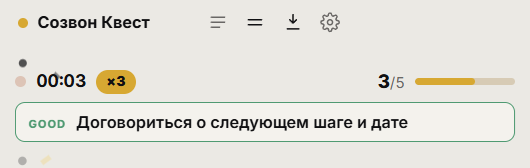
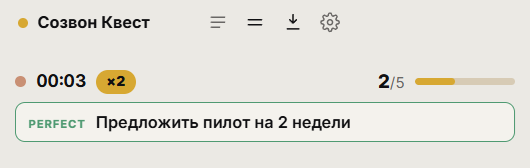
README под версию 0.2: новые скриншоты, режимы с ключом и без, короче и без устаревшего; демо не пишет в историю; плашка рекорда не перекрывает ранг

diff --git a/src/renderer/app.js b/src/renderer/app.js
@@ -64,7 +64,7 @@
   function enterLive(snap, replay) {
     S.session = snap; S.theses = snap.theses; S.transcriptLines = []; S.partials = { me: '', them: '' }; S.praise = 0;
     renderTheses(); renderTranscript(); updateProgress(false);
-    $('mock-bar').hidden = !!replay || S.cfg.STT_PROVIDER !== 'mock';
+    $('mock-bar').hidden = !!replay || !!S.args.demo || S.cfg.STT_PROVIDER !== 'mock';
     $('live-err').hidden = true; $('err-report').hidden = true;
     $('streak-stamp').hidden = true;
     show('live');
@@ -815,6 +815,7 @@
       setTimeout(() => window.api.mockSay('me', 'Пилот на две недели стоит сто двадцать тысяч рублей, начать можем со следующего понедельника'), 900);
       setTimeout(() => window.api.mockSay('them', 'Понял. А есть примеры, где это уже сработало?'), 6000);
       setTimeout(() => window.api.mockSay('me', 'У одного клиента наш агент вернул один и девять миллиона рублей за два месяца. Кстати, а кто у вас принимает решение по таким проектам?'), 6500);
+      setTimeout(() => window.api.mockSay('them', 'Решение за мной и финдиректором, бюджет на квартал заложен. Хотим стартовать до конца месяца.'), 8500);
     }
   }
 

diff --git a/src/renderer/styles.css b/src/renderer/styles.css
@@ -271,7 +271,7 @@ h3 { font-size: 12px; font-weight: 600; color: var(--text-dim); text-transform: 
 .result-title.rise, .dog-say.rise { animation: rise 380ms var(--ease); }
 @keyframes rise { from { opacity: 0; transform: translateY(10px); } to { opacity: 1; transform: none; } }
 .result-sub { font-size: 12px; color: var(--text-faint); margin-top: 2px; white-space: nowrap; overflow: hidden; text-overflow: ellipsis; }
-.record-pill { position: absolute; top: 12px; right: 12px; background: var(--gold); color: var(--ink); font-size: 11px; font-weight: 800; border-radius: 999px; padding: 4px 10px; letter-spacing: .04em; }
+.record-pill { position: absolute; bottom: 14px; right: 16px; background: var(--gold); color: var(--ink); font-size: 11px; font-weight: 800; border-radius: 999px; padding: 4px 10px; letter-spacing: .04em; }
 .record-pill.pop { animation: stamp 420ms var(--ease), glow 700ms ease-in-out 2; }
 @keyframes glow { 50% { box-shadow: 0 0 0 6px rgba(215,168,50,.35); } }
 

diff --git a/src/main/main.js b/src/main/main.js
@@ -102,6 +102,8 @@ app.whenReady().then(() => {
   if (!cfg.MODELS_DIR) cfg.MODELS_DIR = path.join(app.getPath('userData'), 'models');
   if (ARGS.stt) cfg.STT_PROVIDER = ARGS.stt;
   else if (ARGS.demo) cfg.STT_PROVIDER = 'mock';
+  // демо не пишет в настоящую историю, иначе в «Рекорд» попадает тестовый созвон
+  if (ARGS.demo) cfg.SESSIONS_DIR = path.join(app.getPath('temp'), 'sozvon-quest-demo');
   log('start', `v${app.getVersion()}`, `stt=${cfg.STT_PROVIDER}`, `llm=${cfg.LLM_PROVIDER}`, `key=${cfg.AITUNNEL_API_KEY ? 'да' : 'нет'}`);
   // обновились с 0.1 или загрузка в мастере оборвалась: тихо докачиваем модель распознавания в фоне
   if (cfg.STT_PROVIDER === 'local' && !localTone.modelDir(cfg) && !ARGS.demo && !ARGS.replay) {

diff --git a/README.md b/README.md
@@ -1,99 +1,101 @@
 # Созвон Квест
 
-Не даёт забыть, что важно обсудить на созвоне. Перед звонком записываешь, что нужно спросить, сказать или о чём договориться. Во время разговора пункты отмечаются сами, как только ты их озвучил, и перед глазами всегда то, что ещё осталось. В конце балл из 100 и разбор: что узнал от собеседника, что упустил и в какой момент это было уместно поднять.
+Не даёт забыть, что важно обсудить на созвоне.
 
-Созвон с клиентом, синк с командой, отчёт перед группой, собеседование: подходит любой звонок, где есть список того, что нельзя пропустить. Работает поверх Телемоста, Zoom, Meet и Teams. Открытый инструмент для Windows.
+Перед звонком записываешь, что нужно спросить, сказать или о чём договориться. Во время разговора пункты отмечаются сами, как только ты их озвучил, и перед глазами всегда то, что ещё осталось. В конце балл из 100 и разбор: что узнал от собеседника, что упустил и в какой момент это стоило поднять.
+
+Подходит для любого звонка, где есть список того, что нельзя пропустить: продажи, синк с командой, отчёт, собеседование. Работает поверх Телемоста, Zoom, Meet, Teams и любой другой программы, потому что слушает звук компьютера, а не конкретное приложение.
+
+**[Скачать для Windows](https://github.com/glxaoc/sozvon-quest/releases/latest)** · бесплатно, открытый код, установка не нужна
 
 <p align="center">
   <img src="docs/setup.png" width="260" alt="Стартовый экран: тип созвона и список пунктов">
-  <img src="docs/live.png" width="260" alt="Во время созвона: закрытие пунктов, серия ×3, Степаныч">
+  <img src="docs/live.png" width="260" alt="Во время созвона: пункты закрываются сами, серия ×2, Степаныч">
   <img src="docs/result.png" width="260" alt="Финал: балл из 100, ранг, разбор">
 </p>
-<p align="center">
-  <img src="docs/compact.png" width="360" alt="Компактный режим: одна строка со следующим пунктом">
-</p>
 
-## Как пользоваться
+## Как начать
 
-1. Скачай `SozvonQuest-x.y.z-portable.exe` из [Releases](https://github.com/glxaoc/sozvon-quest/releases) и запусти. Установка не нужна. Windows при первом запуске покажет предупреждение SmartScreen «неизвестный издатель»: «Подробнее» → «Выполнить в любом случае». Подписи кода нет, это личный проект.
-2. Мастер первого запуска предложит два режима:
-   - **С ключом AiTunnel, рекомендуем.** Речь распознаётся на твоём компьютере, в облако уходит только текст для сверки. Работает на любом ноутбуке, час созвона стоит около 20 ₽. [AiTunnel](https://aitunnel.ru) — российский агрегатор нейросетей: оплата в рублях, без VPN. Ключ проверяется живым запросом и хранится только на твоём компьютере.
-   - **Без ключа.** Всё работает на компьютере, ничего не уходит в интернет. Нужна видеокарта: после загрузки моделей (2,9 ГБ) мастер проверит скорость и честно скажет, потянет ли твой компьютер.
-3. Выбери тип созвона и список пунктов: готовый, свой сохранённый или новый. Звёздочка в начале строки делает пункт критичным: вес двойной, а его пропуск режет ранг. Нажми «Начать созвон» и надень гарнитуру.
+1. Скачай `SozvonQuest-x.y.z-portable.exe` со [страницы релиза](https://github.com/glxaoc/sozvon-quest/releases/latest) и запусти. Windows покажет предупреждение SmartScreen «неизвестный издатель»: «Подробнее» → «Выполнить в любом случае». Подписи кода нет, это личный проект.
+2. Выбери режим в мастере первого запуска. Его можно поменять потом в настройках.
+3. Выбери тип созвона и список пунктов: готовый, сохранённый или новый. Надень гарнитуру и нажми «Начать созвон».
 
-Что происходит дальше:
+<img src="docs/onboarding.png" width="260" align="right" alt="Мастер первого запуска: выбор режима">
 
-- **Типы созвонов.** Продажи, Команда, Отчёт, Другое. У каждого свои готовые списки, ранги и норма доли речи: на отчёте нормально говорить 80% времени, на продажах нет.
-- **Закрытие пункта.** Когда ты его озвучил, карточка вспыхивает, летят частицы, появляется оценка PERFECT (сказано прямо) или GOOD (своими словами). Закрытия подряд дают серию ×2, ×3. Если ассистент не уверен, карточка помечается «PARTIAL?», и её можно закрыть кликом.
-- **Компактный режим.** Кнопка с двумя полосками в шапке сжимает окно до одной строки со следующим пунктом, чтобы не закрывать созвон.
-- **Степаныч в углу.** Корги-ассистент смотрит на того, кто говорит, прыгает при закрытии и дремлет, если все молчат. Тихо подсказывает, если ты говоришь дольше минуты подряд или пять минут ничего не закрывал.
-- **Финал.** Балл из 100 докручивается с нуля, штампом влетает ранг. Ниже реплика Степаныча про этот созвон, что стоило спросить и в какой момент, что узнал от собеседника, доля речи и длиннейший монолог.
-- **История.** Все созвоны лежат в Документы → SozvonQuest: `summary.md` для людей, `session.json` для машин.
+**С ключом, рекомендуем.** Работает на любом ноутбуке. Речь распознаётся на компьютере, в облако уходит только текст для сверки. Час созвона стоит около 20 ₽. Нужен ключ [AiTunnel](https://aitunnel.ru): это российский агрегатор нейросетей, оплата в рублях, без VPN. Для старта хватит пополнения на 100–200 ₽. Мастер проверит ключ и скачает модель распознавания (144 МБ).
 
-**Важно.** Если в созвоне показываешь весь экран, собеседник увидит и эту панель, поэтому показывай окно или вкладку. И предупреждай собеседника, что ведёшь запись и разбор разговора.
+**Без ключа, бесплатно.** Всё работает на компьютере, в интернет ничего не уходит. Нужна видеокарта: мастер скачает модели (2,9 ГБ), замерит скорость и скажет, потянет ли компьютер. Если не потянет, предложит перейти на ключ.
 
-## Как считается балл
+Модели качаются один раз с зеркала в России, с докачкой после обрыва.
+
+<br clear="right">
+
+## Во время созвона
+
+- **Пункт закрывается сам.** Когда ты его озвучил, карточка вспыхивает с оценкой PERFECT (сказано прямо) или GOOD (своими словами). Закрытия подряд дают серию ×2, ×3. Если приложение не уверено, карточка помечается «PARTIAL?», и её можно закрыть кликом.
+- **Следующий пункт подсвечен.** Не надо искать глазами, что ещё осталось.
+- **Критичные пункты.** Звёздочка в начале строки удваивает вес пункта, а если его пропустить, ранг выше A не поднимется.
+- **Степаныч в углу.** Корги-ассистент радуется закрытиям и тихо подсказывает, если ты говоришь больше минуты подряд или пять минут ничего не закрывал.
+- **Компактный режим.** Кнопка с двумя полосками сжимает окно до одной строки со следующим пунктом, чтобы оно не закрывало созвон. Окно держится поверх остальных, это переключается кнопкой в шапке.
+
+<p align="center"><img src="docs/compact.png" width="360" alt="Компактный режим: одна строка со следующим пунктом"></p>
+
+## Типы созвонов
+
+Продажи, Команда, Отчёт, Другое. У каждого типа свои готовые списки, ранги и норма доли речи: на отчёте нормально говорить 80 % времени, на продажах нет. Для продаж есть готовые списки для первого созвона и для созвона по КП. Свой список можно сохранить под именем и выбирать в один клик.
+
+## Финал и балл
+
+Балл из 100 докручивается с нуля, штампом влетает ранг. У каждого типа созвона свои ранги: в продажах от «Клиент вёл, ты кивал» до «Волк созвонов». Ниже реплика Степаныча про этот созвон, пропущенные пункты с минутой, когда их стоило поднять, и то, что ты узнал от собеседника.
 
 | Блок | Вес | Что внутри |
 |---|---|---|
-| Покрытие пунктов | 65 | Perfect 1,0 · Good 0,8 · Partial 0,4 · Miss 0. Критичный пункт весит вдвое, его пропуск ставит потолок ранга A |
-| Собранная информация | 25 | Для пунктов «узнать / спросить»: ответил ли собеседник по существу, уклончиво или не ответил |
+| Покрытие пунктов | 65 | Perfect 1,0 · Good 0,8 · Partial 0,4 · пропуск 0. Критичный пункт весит вдвое |
+| Собранная информация | 25 | По пунктам «спросить»: ответил ли собеседник по существу |
 | Тайминг | 10 | Доля пунктов, закрытых до последних 20 % созвона |
 
-Доля речи, длиннейший монолог, слова-паразиты и частота смены говорящих показываются справочно, в балл не входят.
+Доля речи, самый длинный монолог, слова-паразиты и частота смены говорящих показываются справочно и в балл не входят.
 
-## Как устроено
+Все созвоны сохраняются в Документы → SozvonQuest: `summary.md` с итогами и `session.json` с полной расшифровкой. Лучший результат виден на стартовом экране, история открывается кнопкой «Мои созвоны» в шапке.
 
-```
-renderer (Electron)                      main (Node)
-┌───────────────────────┐   PCM16 16k   ┌────────────────────────────────────────────────┐
-│ getUserMedia (микро)  ├──────────────►│ STT «me»  ──┐                                  │
-│ getDisplayMedia       │   по IPC      │             ├─► transcript ─► ИИ-сверка ─► UI   │
-│  audio:'loopback'     ├──────────────►│ STT «them» ─┘        │                         │
-│ AudioWorklet → int16  │               │            финал: разбор + балл → summary.md   │
-└───────────────────────┘               └────────────────────────────────────────────────┘
-```
+## Важно знать
 
-- **Два аудиоканала.** Микрофон через `getUserMedia`, системный звук через штатный Electron-механизм `audio: 'loopback'` (WASAPI). Поэтому работает с любым приложением для созвонов.
-- **Распознавание на компьютере.** Модель [T-one](https://github.com/voicekit-team/T-one) от Т-Банка через [sherpa-onnx](https://github.com/k2-fsa/sherpa-onnx): стриминг, слова появляются по ходу речи, в 15–20 раз быстрее реального времени даже на одном ядре процессора. Есть облачные адаптеры: AiTunnel, Nexara, Yandex SpeechKit.
-- **Сверка.** Через 0,4 с после каждой твоей реплики модель получает открытые пункты и окно твоей речи за 30 секунд. Отвечает JSON: какие пункты закрыты, цитата, уверенность. Порог автозакрытия 0,8. 17 регресс-кейсов в `test/test-llm.js`. В режиме без ключа сверку делает Qwen3.5-4B через [node-llama-cpp](https://github.com/withcatai/node-llama-cpp) на видеокарте (Vulkan).
-- **Модели** скачиваются один раз в `%APPDATA%/SozvonQuest/models` с зеркала в России, с докачкой после обрыва.
-- **Финал.** Один запрос на весь транскрипт: тип каждого пункта, ответы собеседника, где был уместный момент для пропущенных, реплика Степаныча. Балл считается в `src/main/score.js`.
-- **Защита от эха.** Без гарнитуры микрофон слышит динамики. Если твоя реплика на 60 % совпадает со словами собеседника в окне ±8 секунд, она выбрасывается.
-
-## Замеры (сентябрь 2026)
-
-| Что | Результат |
-|---|---|
-| Распознавание на компьютере | расхождение с лучшим облачным русским распознавателем 20%, как у Whisper large-v3 |
-| От конца фразы до закрытия пункта | около 2,5 с в режиме с ключом |
-| Сверка в облаке | 17 из 17 кейсов в трёх прогонах подряд, 0,6–1,5 с, 0,09 ₽ за запрос |
-| Сверка на компьютере, видеокарта | 13 из 17 кейсов, 0,5–2 с |
-| Сверка на компьютере, только процессор | 16 с – 7 мин на запрос, для живого разговора не годится |
+- **Гарнитура обязательна.** Без неё микрофон слышит динамики. Приложение отсеивает такое эхо, но с гарнитурой точнее.
+- **Показывай окно, а не весь экран.** Если в созвоне демонстрируешь весь экран, собеседник увидит и эту панель.
+- **Предупреждай собеседника**, что ведёшь запись и разбор разговора.
+- **Ключ хранится только на твоём компьютере.** В логи не пишутся ни текст разговора, ни ключи.
 
 ## Если что-то не работает
 
-В настройках есть «Сообщить о проблеме»: приложение копирует диагностику в буфер обмена и открывает форму на GitHub. В лог не пишутся ни текст разговора, ни ключи. Лог лежит в `%APPDATA%/SozvonQuest/logs`. При выходе новой версии на стартовом экране появится плашка со ссылкой.
+В настройках есть «Сообщить о проблеме»: приложение копирует диагностику в буфер обмена и открывает форму на GitHub. Лог лежит в `%APPDATA%\SozvonQuest\logs`. Когда выходит новая версия, на стартовом экране появляется плашка со ссылкой.
 
-Удалить приложение целиком: exe-файл, папку `%APPDATA%/SozvonQuest` (там же модели) и, если не нужны итоги созвонов, Документы → SozvonQuest.
+Удалить приложение целиком: exe-файл, папка `%APPDATA%\SozvonQuest` (там же модели) и, если итоги созвонов не нужны, Документы → SozvonQuest.
 
-## Запуск из исходников
+## Для разработчиков
+
+Electron, без бандлера. Микрофон захватывается через `getUserMedia`, звук собеседника через штатный механизм Electron `audio: 'loopback'` (WASAPI), оба канала идут в main-процесс как PCM 16 кГц.
+
+- **Распознавание:** [T-one](https://github.com/voicekit-team/T-one) от Т-Банка через [sherpa-onnx](https://github.com/k2-fsa/sherpa-onnx), стриминг на процессоре.
+- **Сверка:** через 0,4 с после твоей реплики модель получает открытые пункты и окно твоей речи за 30 секунд и отвечает, что закрыто, с цитатой и уверенностью. Порог автозакрытия 0,8. В режиме без ключа сверку делает Qwen3.5-4B через [node-llama-cpp](https://github.com/withcatai/node-llama-cpp) на видеокарте (Vulkan).
+- **Финал:** один запрос на весь транскрипт, балл считается в `src/main/score.js`.
+
+Замеры, сентябрь 2026:
+
+| Что | Результат |
+|---|---|
+| Распознавание на компьютере | в 15–20 раз быстрее реального времени, расхождение с лучшим облачным распознавателем русского 20 % |
+| От конца фразы до закрытия пункта | около 2,5 с в режиме с ключом |
+| Сверка в облаке | 17 из 17 проверочных ситуаций в трёх прогонах подряд, 0,6–1,5 с на запрос |
+| Сверка на компьютере, видеокарта | 13 из 17, 0,5–2 с |
+| Сверка на компьютере, только процессор | от 16 с до 7 мин на запрос, для живого разговора не годится |
 
 ```bash
 npm install
-cp .env.example .env     # или пройти мастер настройки внутри приложения
-npm start
+npm start            # запуск; ключ вводится в мастере или в .env (см. .env.example)
+npm run start:mock   # без аудио: реплики печатаются руками
+npm run test:llm     # регресс сверки, 17 ситуаций, нужен ключ
+npm run build        # portable-exe в dist/
 ```
-
-| Команда | Что делает |
-|---|---|
-| `npm start` | обычный запуск |
-| `npm run start:mock` | без аудио: реплики печатаются руками, для отладки сверки и анимаций |
-| `npm run build` | portable-exe в `dist/` через electron-builder |
-| `npx electron . --demo --screenshot=outputs/demo.png` | live и финал с примером, три скриншота, выход |
-| `npm run test:llm` | регресс сверки на живом API |
-| `node test/test-tone.js` | замер распознавания на компьютере |
-| `node test/test-score.js <папка сессии>` | пересчитать балл и разбор по сохранённой сессии |
 
 ## Лицензии
 
